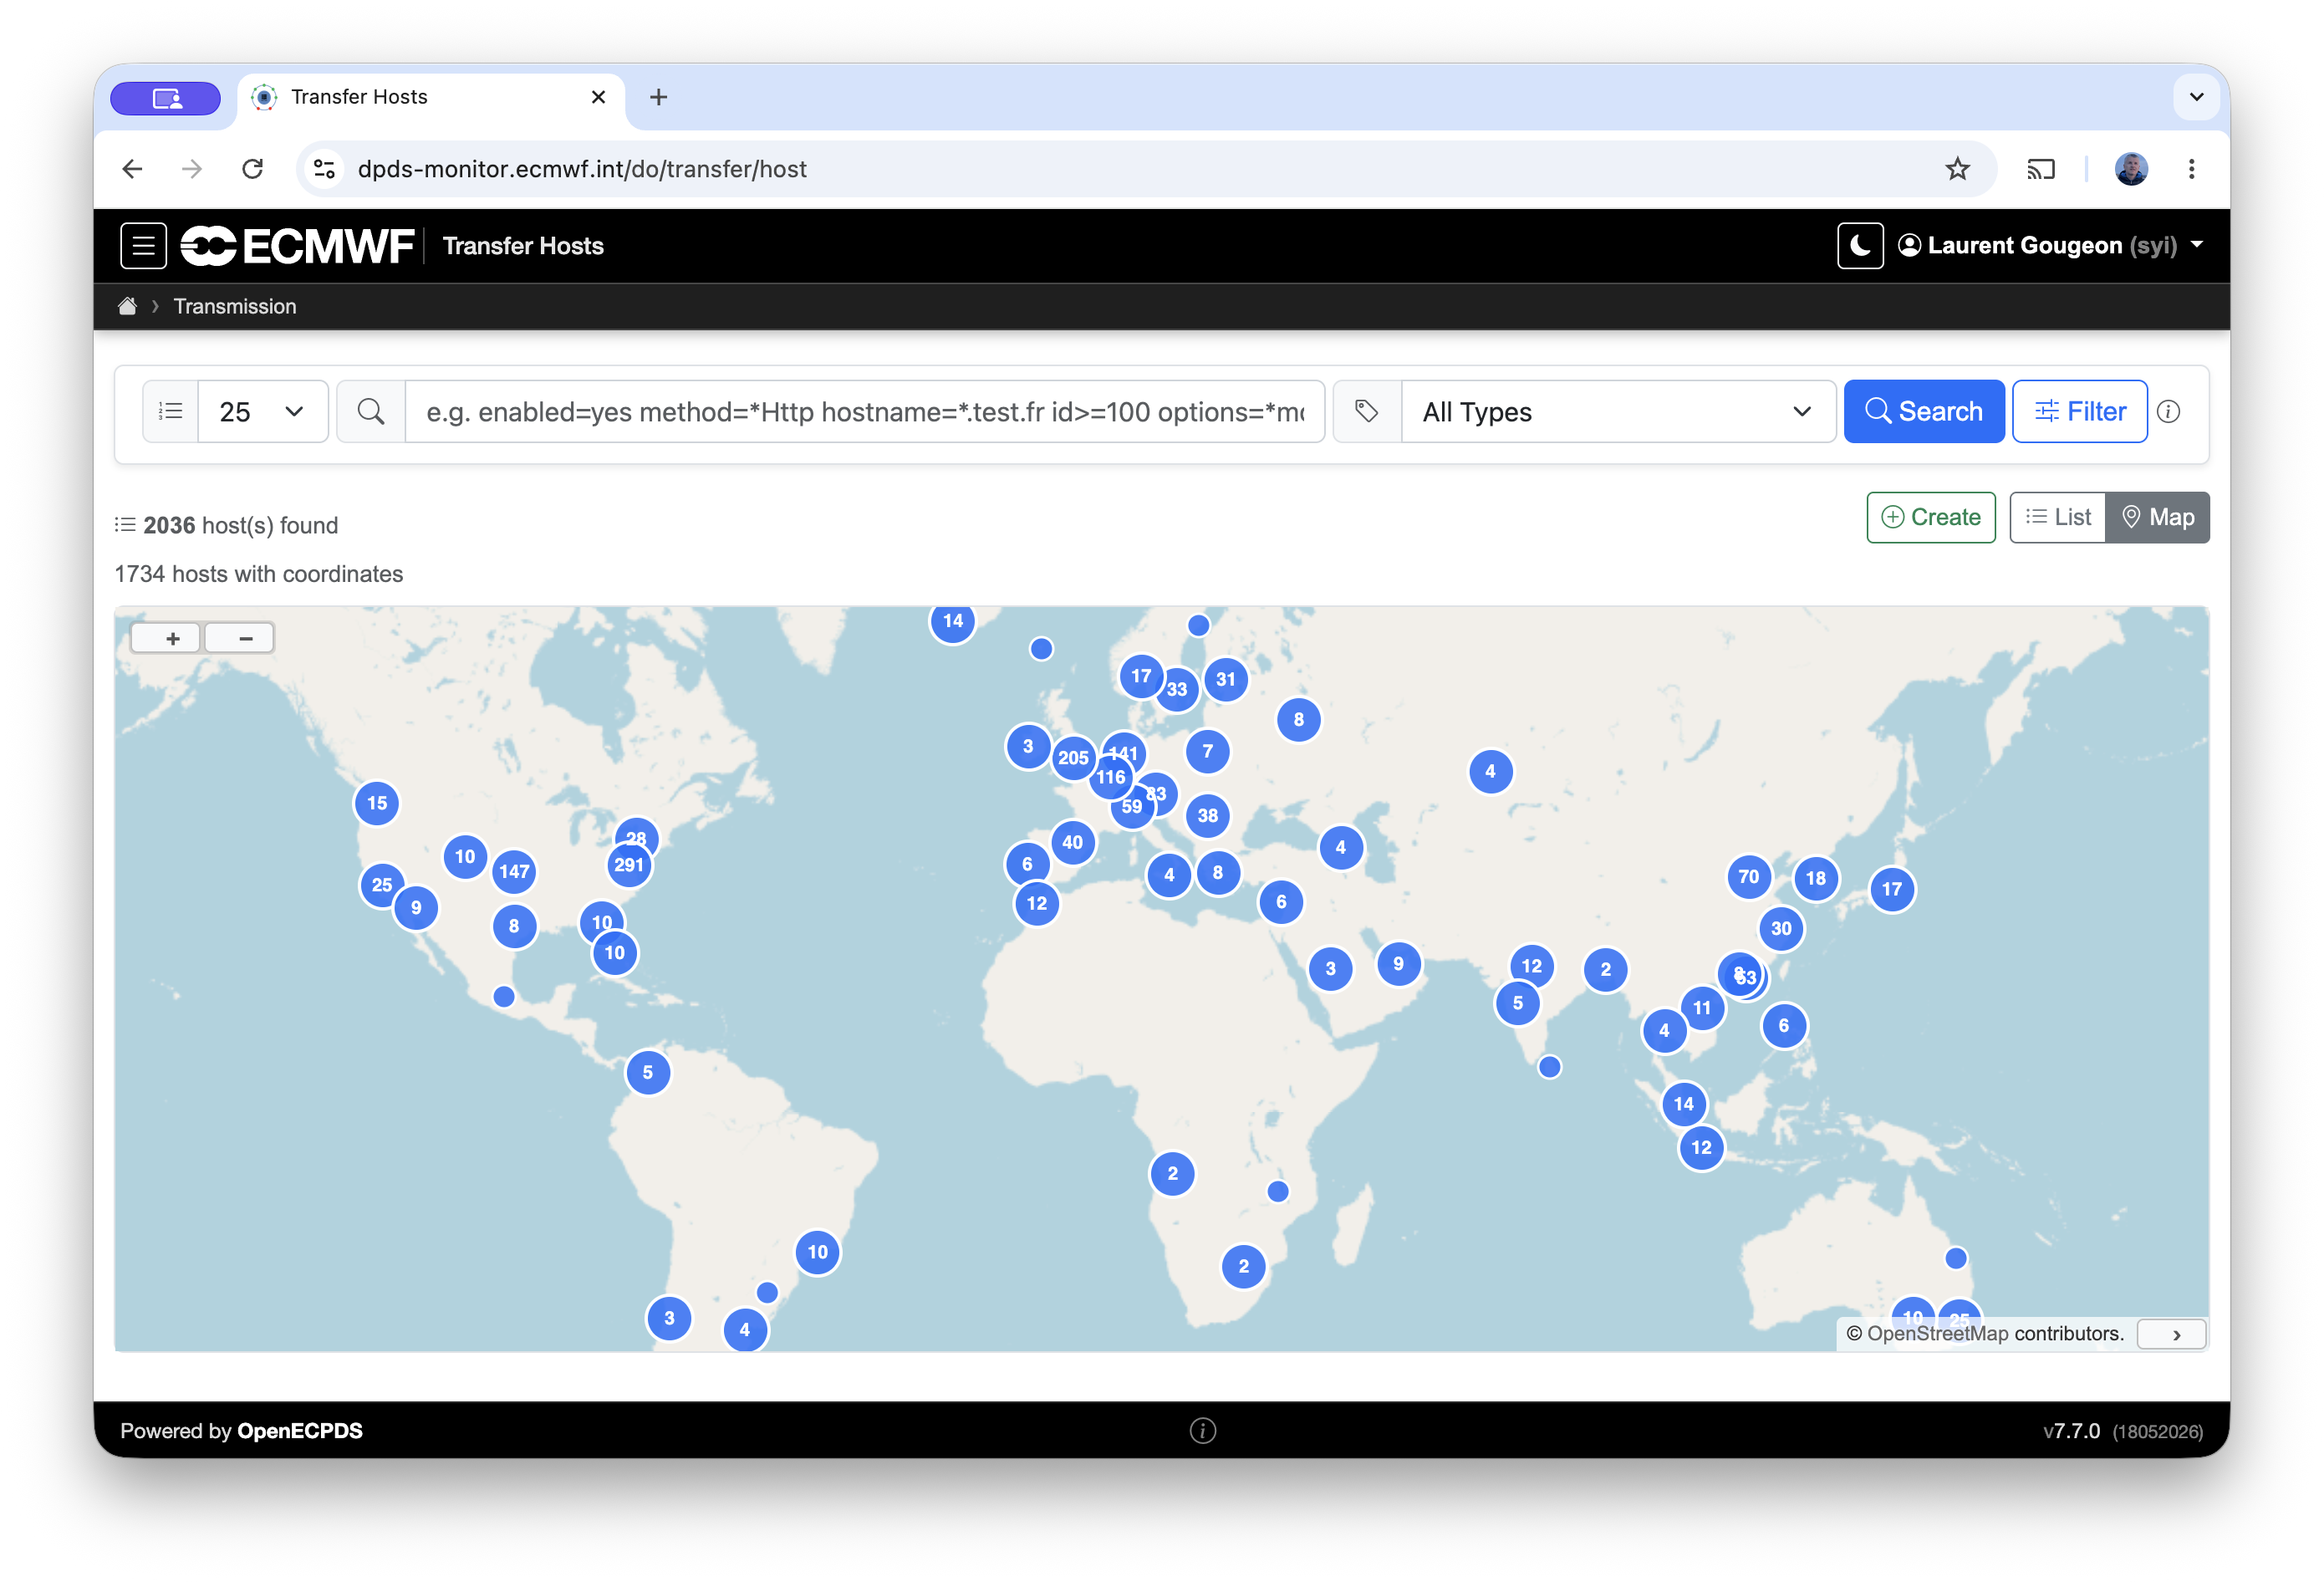
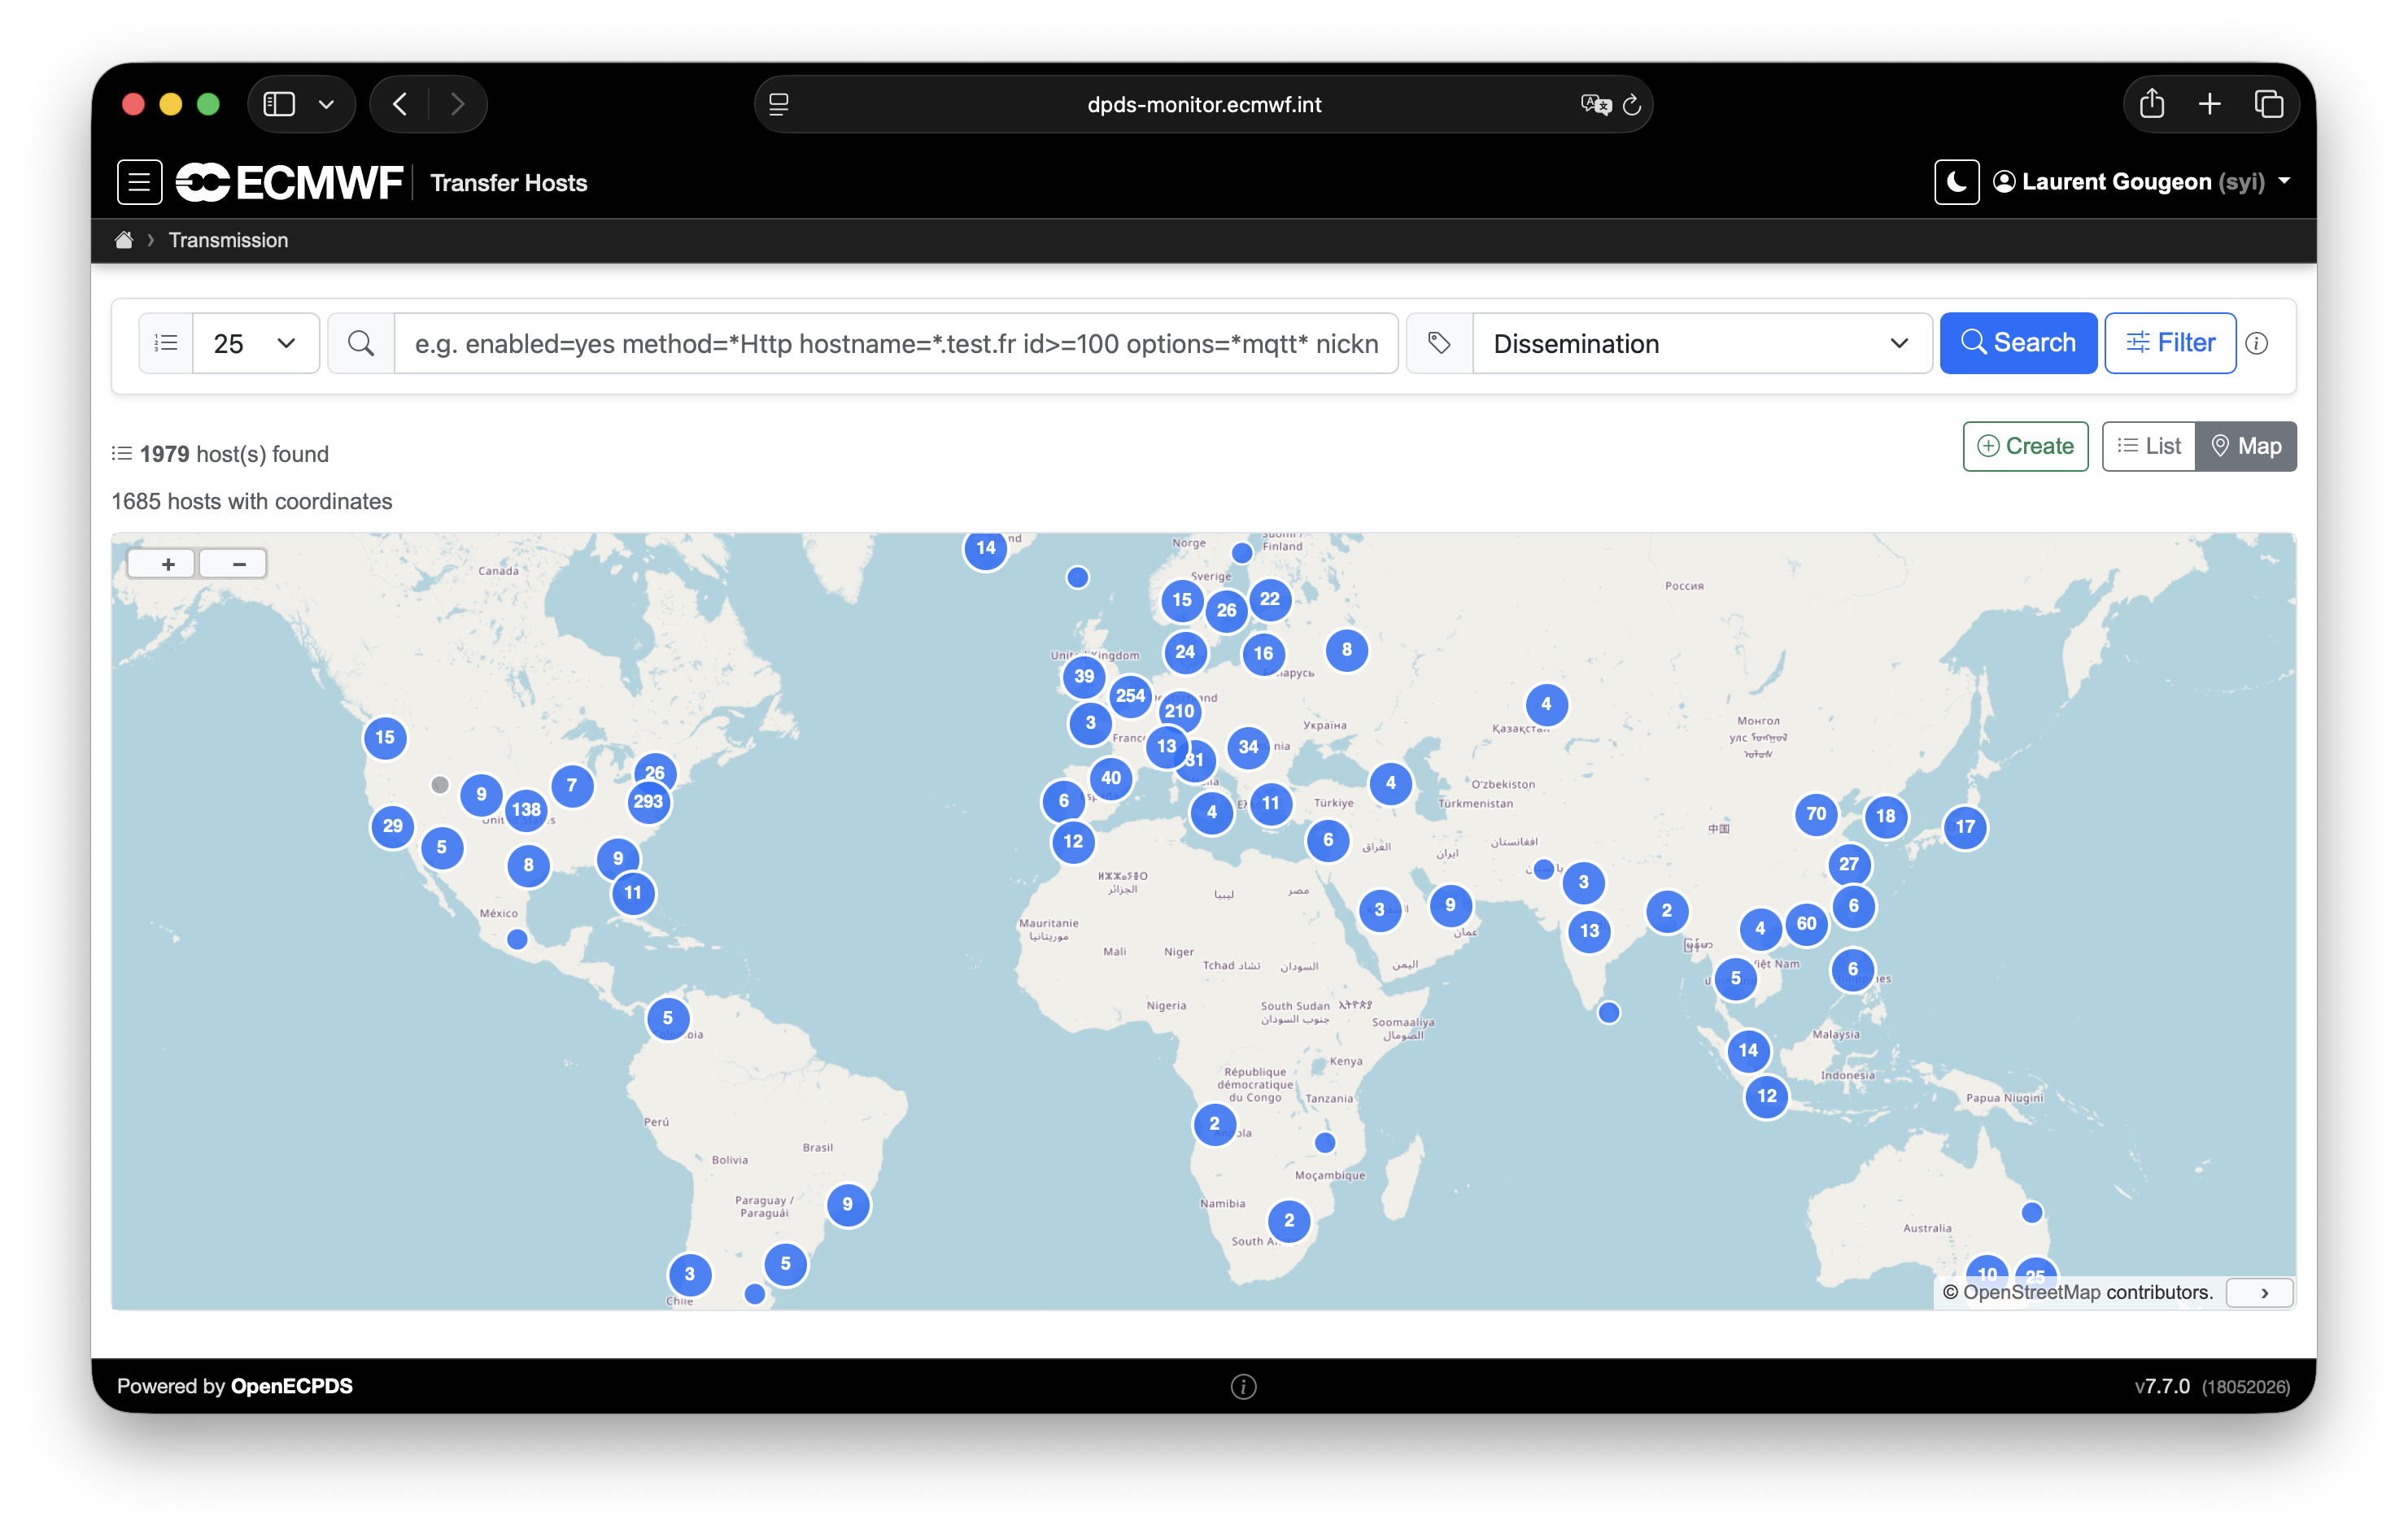
Added corresponding data acquisition screenshot in Global Reach section.

diff --git a/README.md b/README.md
@@ -1036,11 +1036,13 @@ The following map, taken from the OpenECPDS Web Interface, illustrates the globa
 
 <img src="img/Figure20.png" alt="Global Reach of OpenECPDS Data Dissemination" width="550"/>
 
+A corresponding view is available for the acquisition service:
+
+<img src="img/Figure27.png" alt="Global Reach of OpenECPDS Data Acquisition" width="550"/>
+
 > **Warning:** Map pins may represent multiple destinations in dense areas. When applicable, the number of hosts is shown inside the pin.
 
 > **Note:** Geolocation in OpenECPDS is based on the [GeoLite2-City database](https://github.com/wp-statistics/GeoLite2-City), which performs IP-to-location mapping. The resulting locations are approximate and accuracy may vary depending on the IP data available.
-
-A corresponding view is available for the acquisition service.
 
 In addition to this global view, it is also useful to observe how data volumes have evolved over time. The graph below illustrates the annual average monthly data volume (in terabytes) handled by OpenECPDS from 2007 to 2025. This trend highlights the steady and continuous growth of data transfers over eighteen years, reflecting both an expanding user base and the increasing scale of operational activities.
 